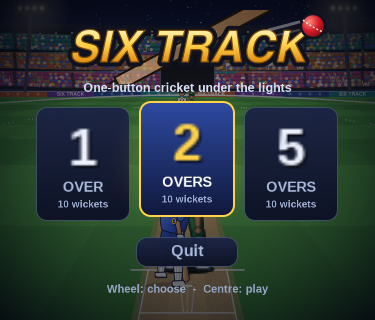
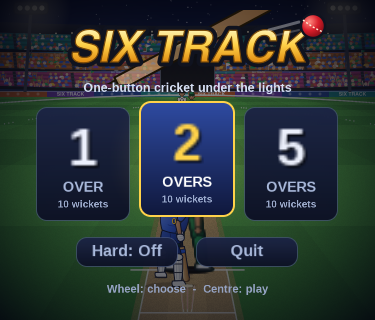
readme: the menu with Hard

Changed region(s): [[0.2053, 0.7188, 0.5573, 0.8438], [0.616, 0.7188, 0.792, 0.8438]]

diff --git a/README.md b/README.md
@@ -5,7 +5,7 @@ as a card game. Chase a target under the floodlights: time your swing, read the 
 
 | Menu | Batting | A six | Scorecard |
 |---|---|---|---|
-| ![The menu: 1, 2 or 5 overs](docs/images/menu.png) | ![Batting, a faint guide for the perfect moment](docs/images/batting.png) | ![A six over midwicket, the umpire's signal close up](docs/images/six.png) | ![The batting card after a chase](docs/images/scorecard.png) |
+| ![The menu: 1, 2 or 5 overs, Hard and Quit](docs/images/menu.png) | ![Batting, a faint guide for the perfect moment](docs/images/batting.png) | ![A six over midwicket, the umpire's signal close up](docs/images/six.png) | ![The batting card after a chase](docs/images/scorecard.png) |
 
 ## How to play
 
